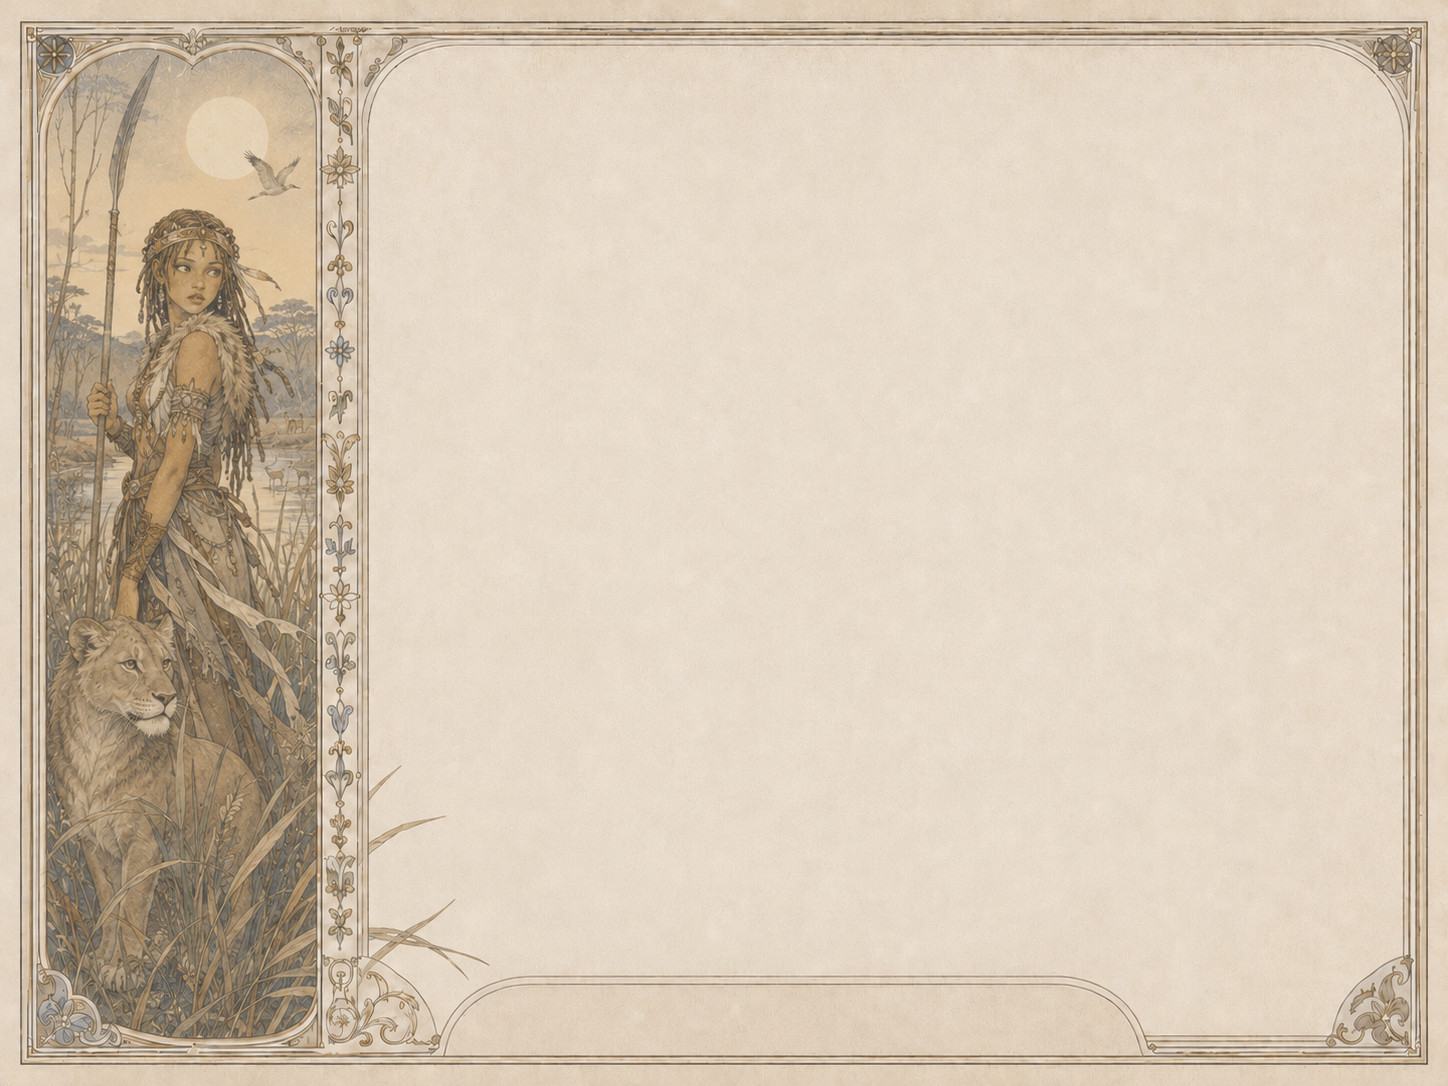
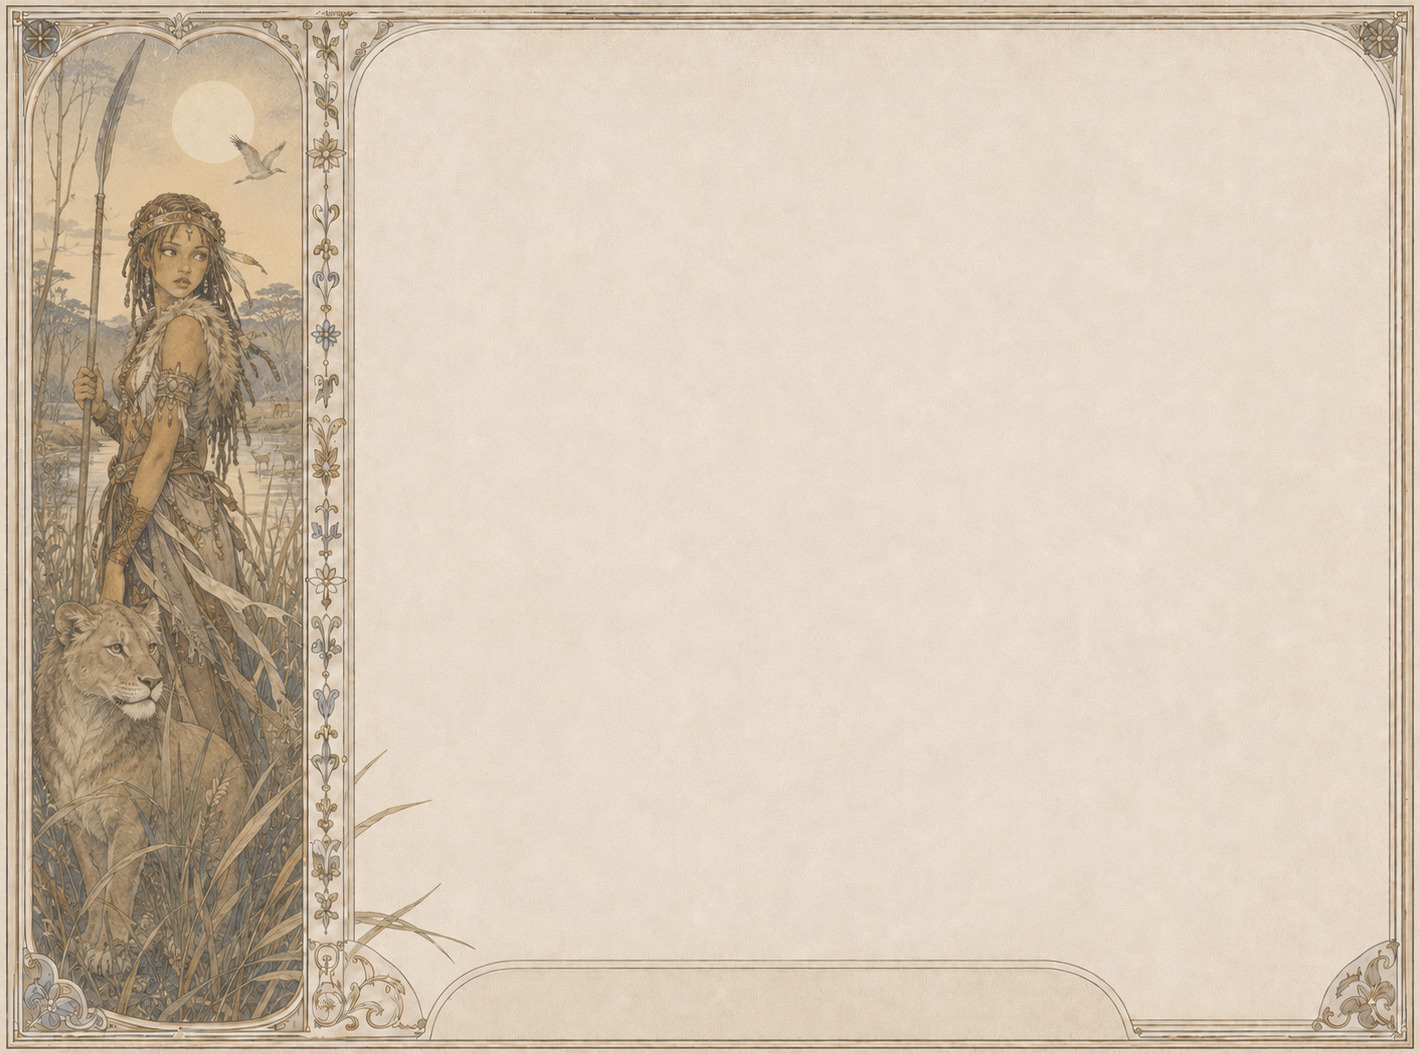
Pre-crop every painted bg at source; viewport crop now zero; quiz progressive reveal
USER UPLOADED 3 pre-cropped sources:
  1F1292F3 → main-menu.jpg     (1433×1070 — ~1% L/R + 1.5% T/B
                                 trimmed off the original 1448×1086)
  89C535ED → chapters.jpg      (1448×1072)
  IMG_5881 → select-mode.jpg   (1414×1053)
  No re-compression (user: '不用压缩 本来也不大'). Simply renamed
  on top of the existing bg files; UUID-named sources deleted.

Cropped EVERY OTHER painted bg at source to match (~1% L/R, 1.5%
T/B). One pass via PIL: notes.jpg / page-blank.jpg / splash.jpg /
word-garden.jpg + all 13 reading illustrations. Saved at q92
with 4:4:4 chroma sub-sampling so the crops don't degrade the
hand-drawn detail. All bgs now end up at 1420×1054 (the user
already-cropped trio stay at their original sizes, ~1430×1070).

Because every source is now pre-cropped, the viewport-side bleed
removal in viewport.js becomes redundant — and worse, double-
trimming would eat into the painted frame line. Reverted:
  layout.css  stage aspect-ratio 1433.52 / 1053.42 → 1448 / 1086.
  viewport.js fitStage()  drops BLEED_X / BLEED_Y / EFF_W. Now
              simply scale = sw / 1448; transform = scale(s); no
              translate offset. Stays defensive against premature
              clientWidth (still requestAnimationFrame-retries if
              the stage measures < 200 px).

Cleanup: deleted the obsolete UUID source files for both menu
buttons (9AB57756 / E0420F12) and the unused menu-button.png that
[…]

Changed region(s): [[0.0, 0.0, 1.0, 1.0], [0.7437, 0.9108, 0.7746, 0.9412]]

diff --git a/js/quiz.js b/js/quiz.js
@@ -124,7 +124,19 @@
       ? items.map((q, i) => renderItem(q, i, pool, section.audio_prefix)).join("")
       : `<div class="empty-state">No quiz available yet for this section.</div>`;
 
+    // PROGRESSIVE REVEAL — only Q1 shows initially; subsequent
+    // questions appear only after the previous one is answered
+    // correctly. Wrong answer → speak the wrong word + bounce
+    // back to the reading page (per user spec: '选错播放被点击的
+    // 单词语音 然后直接返回前一章学习 下面的题目不显现').
+    function showThrough(n) {
+      const all = document.querySelectorAll(".quiz-item");
+      all.forEach((it, i) => it.classList.toggle("is-shown", i <= n));
+    }
+    showThrough(0);
+
     let advancing = false;
+    let backingOut = false;
 
     function allCorrect() {
       const itemEls = document.querySelectorAll(".quiz-item");
@@ -166,21 +178,29 @@
       if (correct) {
         opt.classList.add("is-correct", "is-locked");
         item.dataset.solved = "1";
-        // Lock the other options so the user can't trial-and-error
-        // by clicking around after they've found the right one.
         item.querySelectorAll(".quiz-option").forEach(o => o.classList.add("is-locked"));
-        maybeChapterComplete();
+        // Reveal the NEXT question, or finish the quiz if this was
+        // the last one.
+        const all = Array.from(document.querySelectorAll(".quiz-item"));
+        const idx = all.indexOf(item);
+        if (idx + 1 < all.length) {
+          showThrough(idx + 1);
+        } else {
+          maybeChapterComplete();
+        }
       } else {
-        // Wrong: strike through this option only, don't reveal the
-        // correct one, don't advance. The user may try another.
+        if (backingOut) return;
+        backingOut = true;
         opt.classList.add("is-wrong", "is-locked");
+        // Speak the wrong word + bounce back to the reading page.
+        try { Reveal.speak(opt.dataset.value || opt.textContent || "", { gender: "male" }); } catch (_) {}
+        const backHref = ChapterNav.prevBeforeQuiz(chapterId, sectionNum);
+        setTimeout(() => window.go(backHref), 1500);
       }
     });
 
-    Reveal.init({
-      container: ".page",
-      overlaySelector: ".tap-overlay",
-    });
+    // No Reveal.init here — quiz progression is gated by correct
+    // answers, not by taps anywhere on the page.
 
     // BACK — return to this chapter's reading page (sectionNum).
     const back = document.querySelector("[data-back]");

diff --git a/js/viewport.js b/js/viewport.js
@@ -11,19 +11,11 @@
    tightens it to the actual stage box dimensions at runtime.
    ============================================================ */
 (function () {
-  // CONTAIN with aggressive TOP/BOTTOM bleed crop + tiny SIDE crop.
-  // Per user: '上下出血边要裁（留边框线）' — crop top/bottom right
-  // up to the painted frame line. '左右两边的出血边裁一点' — also
-  // shave a small slice off the sides so the painted outer frame
-  // reads cleanly against the viewport edge. The leftover side
-  // letterbox is body-bg parchment matching the painted bleed so
-  // visually 'transparent'.
-  const BLEED_X = 1448 * 0.005;   // 0.5% per side = 7.24 design px
-  const BLEED_Y = 1086 * 0.015;   // 1.5% per side = 16.29 design px
-  const EFF_W   = 1448 - 2 * BLEED_X;   // 1433.52
-  const EFF_H   = 1086 - 2 * BLEED_Y;   // 1053.42
-  const EFF_ASPECT = EFF_W / EFF_H;     // 1.361
-
+  // NO viewport-side bleed crop — the painted bgs are already
+  // pre-cropped at SOURCE to remove the parchment bleed (~1 % L/R,
+  // ~1.5 % T/B). Doing another crop here would double-trim and
+  // start eating into the hand-drawn frame line. The .page is
+  // scaled to fill the stage exactly.
   function fitStage() {
     const stage = document.querySelector(".stage");
     const page  = document.querySelector(".stage .page");
@@ -33,15 +25,9 @@
       requestAnimationFrame(fitStage);
       return;
     }
-    // Scale so the EFFECTIVE area width fills the stage. Page
-    // overflows by BLEED_X each side horizontally and BLEED_Y each
-    // side vertically; the stage's overflow:hidden clips them.
-    const scale = sw / EFF_W;
-    const offX  = -BLEED_X * scale;
-    const offY  = -BLEED_Y * scale;
+    const scale = sw / 1448;
     page.style.transformOrigin = "top left";
-    page.style.transform =
-      `translate(${offX.toFixed(3)}px, ${offY.toFixed(3)}px) scale(${scale.toFixed(6)})`;
+    page.style.transform = `scale(${scale.toFixed(6)})`;
     page.style.setProperty("--page-scale", scale.toFixed(6));
   }
 

diff --git a/css/layout.css b/css/layout.css
@@ -21,13 +21,15 @@
    the same parchment shade as the painted bleed, so the seam is
    invisible. */
 .stage {
-  /* Aspect = effective area 1433.52 × 1053.42 (= 1.361).
-     Painted page is scaled by JS so this effective area fills
-     the stage exactly; outer 0.5% L/R + 1.5% T/B bleed overflows
-     and gets clipped by overflow:hidden. */
-  width:  min(100vw, calc(100dvh * 1433.52 / 1053.42));
-  height: min(100dvh, calc(100vw * 1053.42 / 1433.52));
-  aspect-ratio: 1433.52 / 1053.42;
+  /* Sources are pre-cropped at the JPG file level (~1% L/R,
+     ~1.5% T/B trimmed off the painted bleed), so the stage is
+     just the page aspect 1448 / 1086 and the page fills it
+     exactly. No viewport-side crop, no math gymnastics. Side
+     letterbox stays #e3d6c4 — the same parchment shade as the
+     trimmed bleed, so the seam is invisible. */
+  width:  min(100vw, calc(100dvh * 1448 / 1086));
+  height: min(100dvh, calc(100vw * 1086 / 1448));
+  aspect-ratio: 1448 / 1086;
   position: relative;
   flex-shrink: 0;
   overflow: hidden;

diff --git a/css/components.css b/css/components.css
@@ -564,6 +564,18 @@ button.ornate-panel {
   margin-bottom: 8px;
 }
 .quiz-item { margin-bottom: 42px; }
+/* Progressive-reveal gating. Initial state = hidden; quiz.js adds
+   .is-shown when a previous question has been answered correctly. */
+.quiz-item:not(.is-shown) {
+  opacity: 0;
+  pointer-events: none;
+  transition: opacity 280ms ease-out;
+}
+.quiz-item.is-shown {
+  opacity: 1;
+  pointer-events: auto;
+  transition: opacity 320ms ease-out;
+}
 .quiz-item .quiz-no {
   font-family: var(--font-display);
   font-size: 13px;
